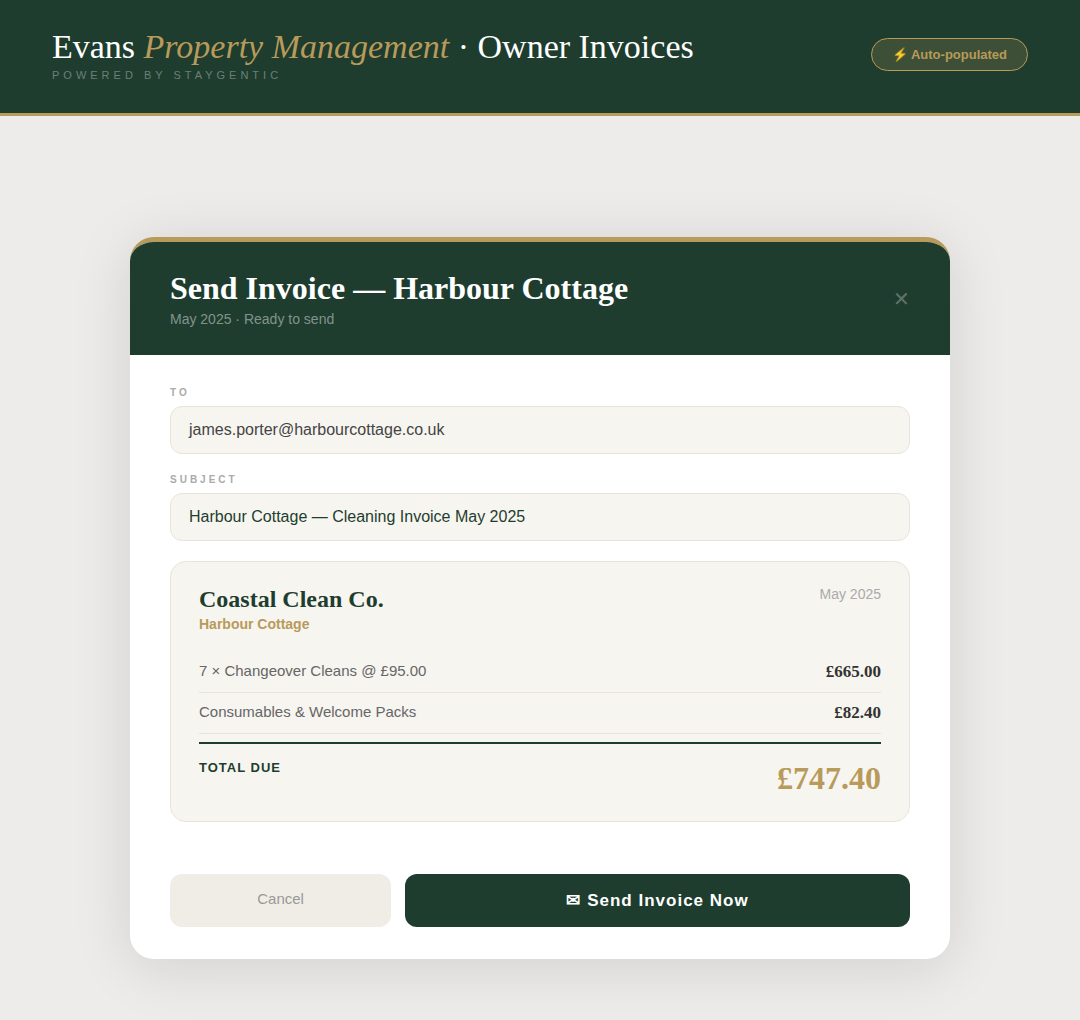
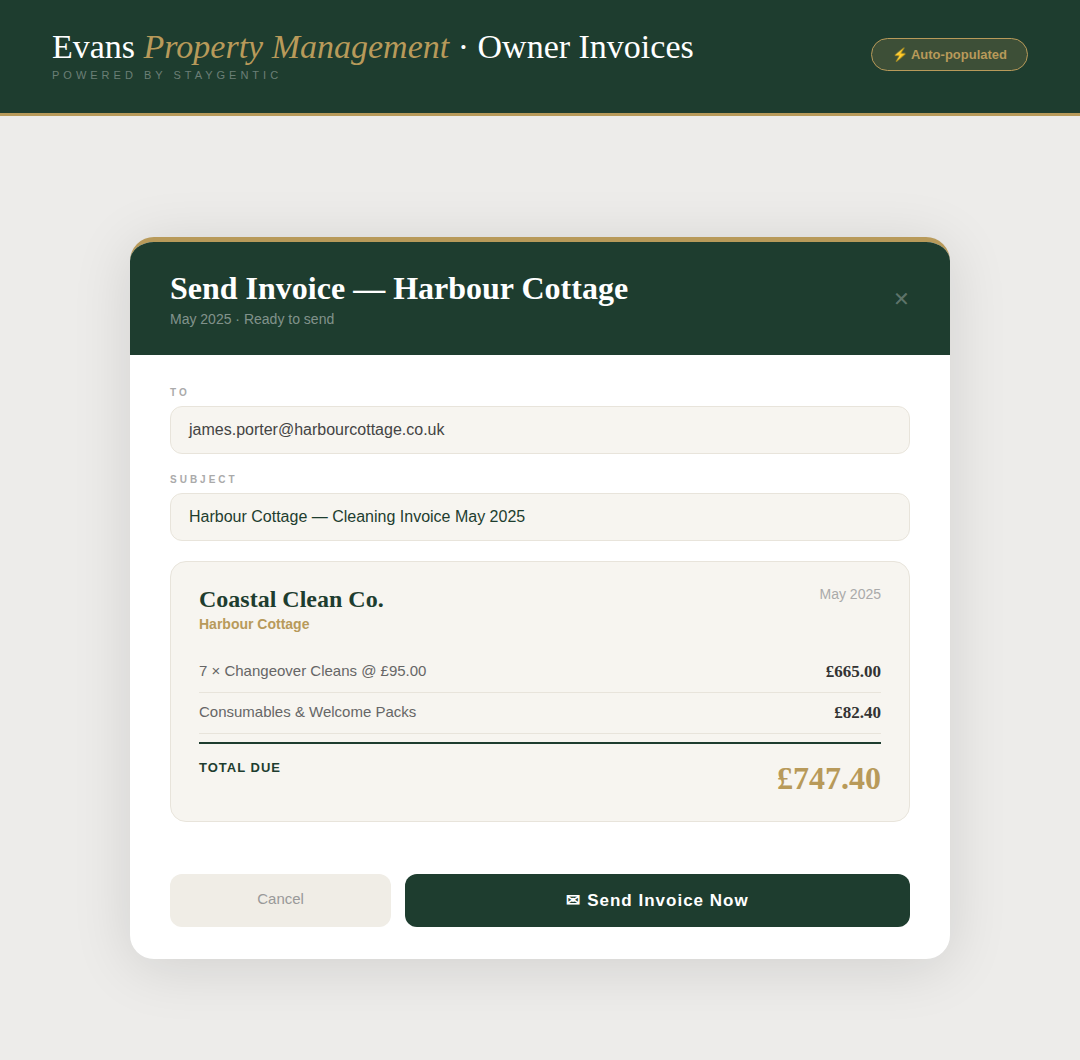
Fix manager screenshot width crop — uniform 1080x1060 images
All three manager screenshots re-cropped to identical 1080x1060
dimensions (content fills ~1054px for all). Removed aspect-ratio:3/4
object-fit:cover CSS that was horizontally cropping the near-square
invoices and send-invoice images.

diff --git a/staygentic-clean/index.html b/staygentic-clean/index.html
@@ -195,7 +195,7 @@ body.mode-commercial .sc-step-tag{background:rgba(46,125,209,0.12)}
 .sc-phone-img:hover{transform:translateY(-4px);box-shadow:0 20px 56px rgba(0,0,0,0.18)}
 .sc-phone-caption{font-family:'Jost',sans-serif;font-size:0.68rem;color:var(--muted);text-align:center;margin-top:10px;letter-spacing:0.06em}
 .sc-desktop-row{display:grid;grid-template-columns:1fr 1fr 1fr;gap:16px}
-.sc-desktop-img{width:100%;aspect-ratio:3/4;object-fit:cover;object-position:top left;border-radius:8px;box-shadow:0 12px 40px rgba(0,0,0,0.1);display:block;border:1px solid var(--border);transition:transform 0.3s,box-shadow 0.3s}
+.sc-desktop-img{width:100%;display:block;border-radius:8px;box-shadow:0 12px 40px rgba(0,0,0,0.1);border:1px solid var(--border);transition:transform 0.3s,box-shadow 0.3s}
 .sc-desktop-img:hover{transform:translateY(-3px);box-shadow:0 20px 56px rgba(0,0,0,0.15)}
 @media(max-width:1000px){.sc-phones-row{grid-template-columns:1fr 1fr}.sc-desktop-row{grid-template-columns:1fr 1fr}}
 @media(max-width:640px){.sc-desktop-row{grid-template-columns:1fr}}
